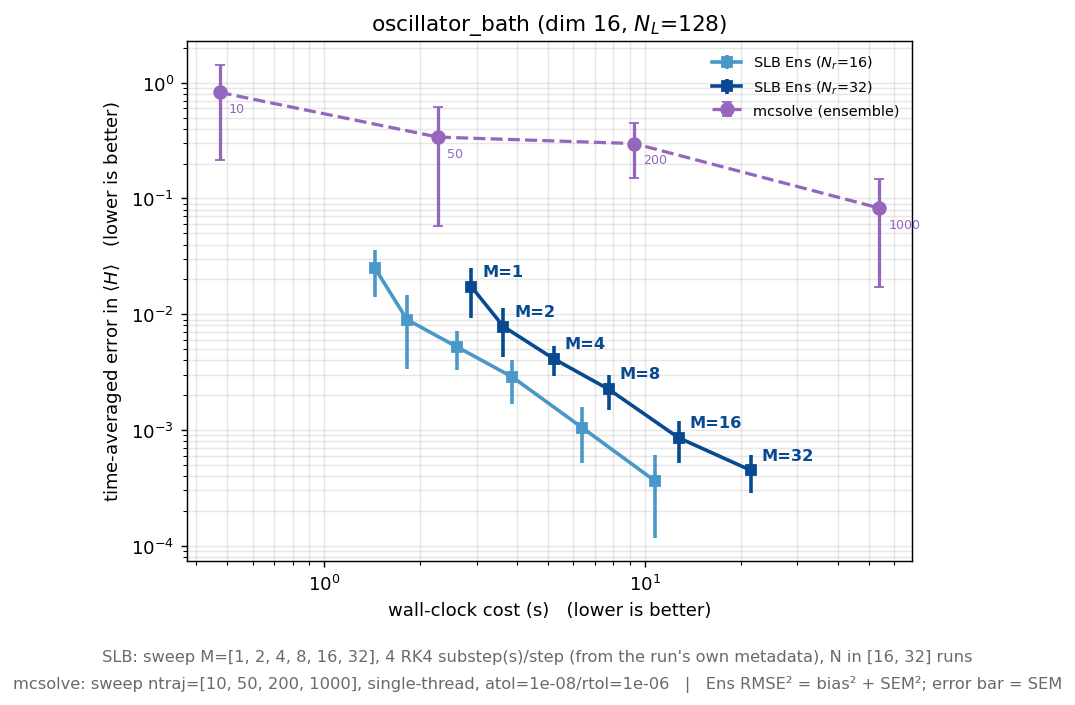
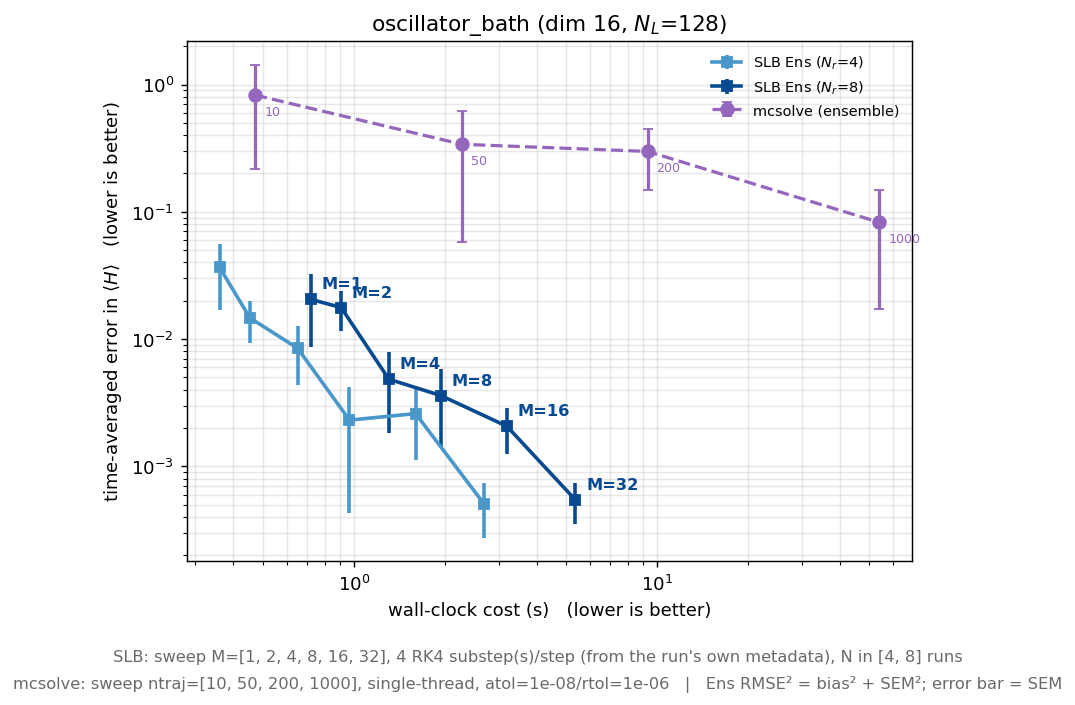
results of convergence

diff --git a/benchmarks/plot_accuracy_vs_M.py b/benchmarks/plot_accuracy_vs_M.py
@@ -81,7 +81,7 @@ def accuracy_figure(plt, name, doc, tlist, reference, curves,
     # ---------------------------------------------------------
     M_TO_PLOT = {
         "spin_chain": [2, 4, 8, 16],
-        "oscillator_bath": [2, 8, 32, 64]
+        "oscillator_bath": [2, 8]
     }
     system_m_list = M_TO_PLOT.get(name)
 

diff --git a/benchmarks/plot_frontier.py b/benchmarks/plot_frontier.py
@@ -22,7 +22,7 @@ from common import (
 # Define different N sweeps for each system here:
 N_RUNS_SWEEP = {
     "spin_chain": [2, 4, 8],   
-    "oscillator_bath": [16, 32]   
+    "oscillator_bath": [4,8]   
 }
 
 PLOT_ENSEMBLE_RMSE = True
